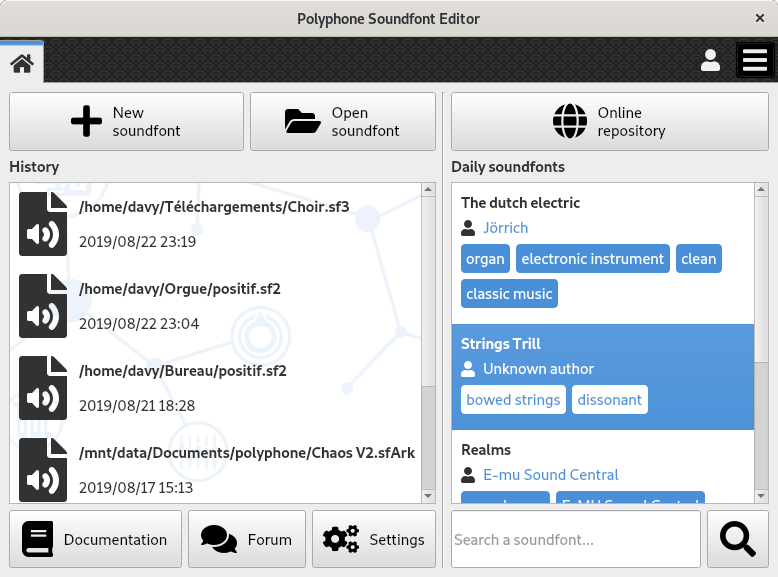
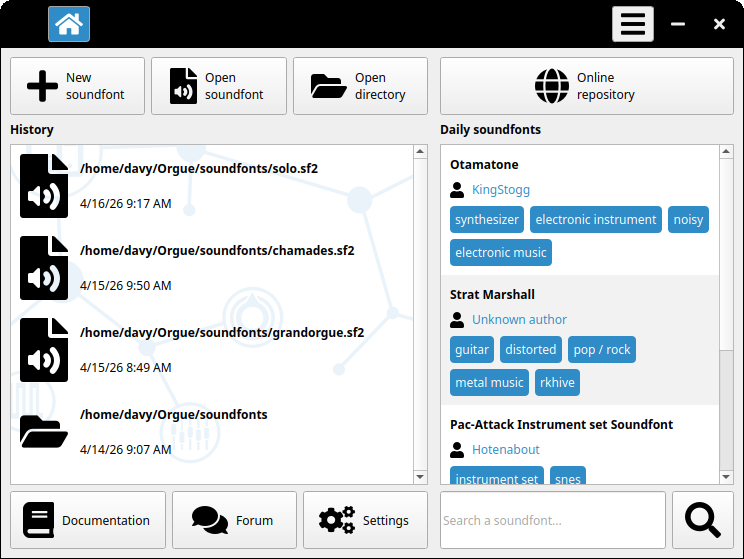
Preparation for the soundfont explorer

diff --git a/fr/manual/index.md b/fr/manual/index.md
@@ -1,4 +1,4 @@
-Bienvenue dans le **Manuel utilisateur** de Polyphone&nbsp;! Pour découvrir rapidement ce que sont les soundfonts et comment les éditer avec Polyphone, il est possible de commencer par des [tutoriels](tutorials/index.md) ou de regarder des vidéos sur <a href="https://www.youtube.com/results?search_query=polyphone+sf2" target="_blank">YouTube</a> (un grand merci aux utilisateurs de Polyphone pour leurs vidéos très utiles). Et si vous souhaitez connaître toutes les fonctionnalités du logiciel, continuez simplement la lecture.
+Bienvenue dans le **Manuel utilisateur** de Polyphone&nbsp;! Pour découvrir rapidement ce que sont les banques de sons (aussi appelée «&nbsp;soundfont&nbsp;» en anglais) et comment les éditer avec Polyphone, il est possible de commencer par des [tutoriels](tutorials/index.md) ou de regarder des vidéos sur <a href="https://www.youtube.com/results?search_query=polyphone+sf2" target="_blank">YouTube</a> (un grand merci aux utilisateurs de Polyphone pour leurs vidéos très utiles). Et si vous souhaitez connaître toutes les fonctionnalités du logiciel, continuez simplement la lecture.
 
 Si vous avez besoin de plus d'aide, ou si la lecture de ces pages vous rebute, vous pouvez trouver de l'aide dans le [forum](forum).
 
@@ -8,7 +8,7 @@ Si vous avez besoin de plus d'aide, ou si la lecture de ces pages vous rebute, v
 
 À l'ouverture de Polyphone, vous trouverez 3 parties&nbsp;:
 
-* une [partie gauche](#doc_left), contenant l'historique des fichiers et des raccourcis&nbsp;;
+* une [partie gauche](#doc_left), contenant l'historique des fichiers et dossiers ouverts ainsi que des raccourcis&nbsp;;
 * une [partie droite](#doc_right), dédiée aux banques de sons en ligne&nbsp;;
 * une [partie haute](#doc_top), présentant des onglets et un menu.
 
@@ -22,10 +22,11 @@ Si vous avez besoin de plus d'aide, ou si la lecture de ces pages vous rebute, v
 ### Ouverture d'une banque de sons
 
 
-Trois manières d'ouvrir une banque de sons (aussi appelée «&nbsp;soundfont&nbsp;» en anglais)&nbsp;:
+Plusieurs manières d'ouvrir une banque de sons&nbsp;:
 
 * un clic sur :guilabel:`Ouvrir banque de sons` ouvre un navigateur de fichiers, les fichiers sélectionnables ayant l'extension :file:`.sf2`, :file:`.sf3`, :file:`.sfArk`, :file:`.sfz` ou :file:`.organ` (les différents formats sont décrits [ici](manual/annexes/the-different-soundfont-formats.md))&nbsp;;
 * un clic sur :guilabel:`Nouvelle banque de sons` ouvre une banque de sons vide, tout devant être fait à partir de zéro&nbsp;;
+* un clic sur :guilabel:`Ouvrir répertoire` ouvre l'[explorateur de banques de sons](manual/soundfont-explorer.md) qui scanne tout un répertoire et permet d'ouvrir le fichier souhaité&nbsp;;
 * un double-clic sur une banque de sons de l'historique la ré-ouvre.
 
 Lorsqu'une banque de sons est ouverte un nouvel onglet apparaît, permettant d'accéder à un [éditeur](manual/soundfont-editor/index.md).
@@ -47,20 +48,20 @@ Trois boutons sont localisés dans le bas de la partie gauche&nbsp;:
 ### Banques de sons en ligne
 
 
-Un clic sur le bouton :guilabel:`Banques de sons en ligne` ouvre un onglet avec l'[explorateur de banques de sons](manual/soundfont-browser.md).
+Un clic sur le bouton :guilabel:`Banques de sons en ligne` ouvre un onglet affichant le contenu du [dépôt de banques de sons en ligne](manual/online-repository.md).
 
 
 ### Banques de sons du jour
 
 
 Chaque jour 5 banques de sons choisies aléatoirement sont affichées ici, de manière à vous inciter à découvrir de nouvelles banques de sons.
-Double-cliquer sur l'une d'elles ouvre un nouvel onglet avec la [page de description](manual/soundfont-browser.md#doc_description) correspondante.
+Double-cliquer sur l'une d'elles ouvre un nouvel onglet avec la [page de description](manual/online-repository.md#doc_description) correspondante.
 
 
 ### Recherche
 
 
-Il est possible d'écrire un mot-clef pour chercher des banques de sons spécifiques et les résultats seront affichés dans l'[explorateur de banques de sons](manual/soundfont-browser.md).
+Il est possible d'écrire un mot-clef pour chercher des banques de sons spécifiques depuis le dépôt en ligne et les résultats seront affichés dans l'[onglet dédié](manual/online-repository.md).
 
 
 ## Partie haute {#doc_top}
@@ -73,9 +74,10 @@ Les onglets permettent un accès rapide entre&nbsp;:
 
 * l'[écran d'accueil](#doc_home) (premier onglet — toujours ouvert),
 * l'[éditeur](manual/soundfont-editor/index.md) d'une banque de sons ouverte,
+* l'[explorateur de banques de sons](manual/soundfont-explorer.md),
 * les [préférences](manual/settings.md) du logiciel,
-* l'[explorateur de banques de sons](manual/soundfont-browser.md),
-* la [page de description](manual/soundfont-browser.md#doc_description) d'une banque de sons en ligne.
+* le [dépôt en ligne](manual/online-repository.md),
+* la [page de description](manual/online-repository.md#doc_description) d'une banque de sons en ligne.
 
 La navigation entre les onglets peut s'effectuer grâce à des raccourcis clavier&nbsp;:
 * :kbd:`Ctrl`+:kbd:`Tab` pour aller à l'onglet suivant, en excluant l'onglet de l'écran d'accueil,

diff --git a/en/manual/index.md b/en/manual/index.md
@@ -8,8 +8,8 @@ If you need more help, or if the reading of these pages puts you off, you may fi
 
 The first screen of Polyphone is basically made of 3 parts:
 
-* a [left part](#doc_left), containing a file history and shortcuts;
-* a [right part](#doc_right), dedicated to the soundfont library;
+* a [left part](#doc_left), containing a history of open files and directories, as well as shortcuts;
+* a [right part](#doc_right), dedicated to the soundfont repository;
 * a [top area](#doc_top), containing tabs and a menu.
 
 
@@ -22,10 +22,11 @@ The first screen of Polyphone is basically made of 3 parts:
 ### Opening a soundfont
 
 
-Three ways for opening a soundfont:
+Several ways for opening a soundfont:
 
 * a click on :guilabel:`Open soundfont` opens a file browser, the allowed file to select having the extension :file:`.sf2`, :file:`.sf3`, :file:`.sfArk`, :file:`.sfz` or :file:`.organ` (the different formats are described [here](manual/annexes/the-different-soundfont-formats.md));
 * a click on :guilabel:`New soundfont` opens an empty soundfont, everything is to be done from scratch;
+* a click on :guilabel:`Open directory` opens the [soundfont explorer](manual/soundfont-explorer.md), which scans an entire directory and allows you to open the desired file;
 * a double-click on a soundfont from the history re-open it.
 
 When a soundfont is open, a new tab appears with a [soundfont editor](manual/soundfont-editor/index.md) inside.
@@ -44,24 +45,23 @@ Three buttons are located at the bottom of the left part:
 ## Right part {#doc_right}
 
 
-### Online library
+### Online repository
 
 
-A click on the button :guilabel:`Online library` opens a tab with the [soundfont browser](manual/soundfont-browser.md).
+A click on the button :guilabel:`Online repository` opens a tab displaying the content of the [online soundfont repository](manual/online-repository.md).
 
 
 ### Daily soundfonts
 
 
-Every day, 5 random soundfonts are displayed here.
-This is made for inciting people discovering new soundfonts.
-Double-clicking on one of them opens a new tab with the corresponding [soundfont description](manual/soundfont-browser.md#doc_description).
+Every day, 5 random soundfonts are displayed here. This is made for inciting people discovering new soundfonts.
+Double-clicking on one of them opens a new tab with the corresponding [soundfont description](manual/online-repository.md#doc_description).
 
 
 ### Search
 
 
-It is possible to write a keyword here for searching specific soundfonts and the results will be displayed in the [soundfont browser](manual/soundfont-browser.md).
+It is possible to write a keyword here for searching specific soundfonts from the online repository, and the results will be displayed in the [dedicated tab](manual/online-repository.md).
 
 
 ## Top area {#doc_top}
@@ -74,9 +74,10 @@ The tabs provide a quick access between:
 
 * the [home screen](#doc_home) (first tab — always open),
 * the [editor](manual/soundfont-editor/index.md) of an open soundfont,
+* the [soundfont explorer](manual/soundfont-explorer.md),
 * the software [settings](manual/settings.md),
-* the [soundfont browser](manual/soundfont-browser.md),
-* a [soundfont description](manual/soundfont-browser.md#doc_description) from the library.
+* the [online repository](manual/online-repository.md),
+* a [soundfont description](manual/online-repository.md#doc_description) from the online repository.
 
 Navigation between tabs can be performed using keyboard shortcuts:
 * :kbd:`Ctrl`+:kbd:`Tab` to go to the next tab, excluding the home screen tab,

diff --git a/fr/manual/online-repository.md b/fr/manual/online-repository.md
@@ -1,15 +1,14 @@
-L'explorateur de banques de sons en ligne est un lien entre Polyphone et le dépôt de banques de sons sur le site web de Polyphone.
-Il vous permet, directement dans Polyphone, de télécharger, tester et potentiellement ré-utiliser des banques de sons.
+Le dépôt en ligne de banques de sons peut être ouvert directement dans Polyphone, ce qui permet de télécharger, tester et potentiellement ré-utiliser des banques de sons.
 
 
-## Explorer les banques de sons {#doc_browse}
+## Accès au dépôt {#doc_access}
 
 
-Pour ouvrir l'explorateur, cliquez sur :guilabel:`Banques de sons en ligne` ou écrivez un mot-clef sur l'[écran d'accueil](manual/index.md).
-Une fois l'explorateur ouvert dans un nouvel onglet, il est possible de chercher, trier et filtrer les résultats.
+Pour ouvrir le dépôt en ligne, cliquez sur :guilabel:`Banques de sons en ligne` ou écrivez un mot-clef sur l'[écran d'accueil](manual/index.md).
+Une fois le dépôt ouvert dans un nouvel onglet, la liste des banques de sons disponibles au téléchargement est affichée et il est possible de chercher, trier et filtrer les résultats.
 
 
-![Explorer les banques de sons](images/soundfont_browser_browsing.png "Explorer les banques de sons")
+![Dépôt en ligne](images/online_repository.png "Dépôt en ligne")
 
 
 ### Rechercher une banque de sons
@@ -70,12 +69,12 @@ Tags
 ## Page de présentation {#doc_description}
 
 
-L'ouverture d'une page de présentation se fait à l'aide d'un double-clic sur un élément dans les :guilabel:`Banques de sons du jour` de l'[écran d'accueil](manual/index.md#doc_right) ou dans l'[explorateur de banques de sons](#doc_browse).
-Un compte Premium est requis pour les banques de sons qui n'apparaissent pas dans les :guilabel:`Banques de sons du jour`.
-Connecter Polyphone à votre compte est possible dans les [préférences](manual/settings.md#doc_library) du logiciel.
+L'ouverture d'une page de présentation se fait à l'aide d'un double-clic sur un élément dans les :guilabel:`Banques de sons du jour` de l'[écran d'accueil](manual/index.md#doc_right) ou dans la [liste](#doc_access).
+Un [compte Premium](premium) est requis pour les banques de sons qui n'apparaissent pas dans les :guilabel:`Banques de sons du jour`.
+Connecter Polyphone à votre compte est possible dans les [préférences](manual/settings.md#doc_repository) du logiciel.
 
 
-![Page de présentation](images/soundfont_browser_description.png "Page de présentation")
+![Page de présentation](images/online_repository_description.png "Page de présentation")
 
 
 Une page de présentation est composée&nbsp;:
@@ -96,4 +95,4 @@ Il est possible depuis le menu de nettoyer tous les téléchargements terminés.
 Une fois que tout est nettoyé, le menu de téléchargement disparaît.
 
 
-![Téléchargement des banques de sons](images/soundfont_browser_download.png "Téléchargement des banques de sons")
+![Téléchargement des banques de sons](images/online_repository_download.png "Téléchargement des banques de sons")

diff --git a/en/manual/online-repository.md b/en/manual/online-repository.md
@@ -1,15 +1,14 @@
-The soundfont browser is a link between Polyphone and the soundfont library of the Polyphone website.
-It allows you, directly in Polyphone, to download, test and possibly re-use soundfonts.
+The online soundfont repository can be accessed directly in Polyphone, making it possible to download, test and possibly re-use soundfonts.
 
 
-## Browsing soundfonts {#doc_browse}
+## Access to the repository {#doc_access}
 
 
-To open the soundfont browser, click on :guilabel:`Online library` or write a keyword on the [home screen](manual/index.md).
-Once the soundfont browser is open in a new tab, it is possible to search, sort and filter the results.
+To open the online repository, click on :guilabel:`Online repository` or write a keyword on the [home screen](manual/index.md).
+Once the online repository is open in a new tab, the list of soundfonts available for download is dispalayed and it is possible to search, sort and filter the results.
 
 
-![Browsing soundfonts](images/soundfont_browser_browsing.png "Browsing soundfonts")
+![Browsing soundfonts](images/online_repository_browsing.png "Browsing soundfonts")
 
 
 ### Searching a soundfont
@@ -70,12 +69,12 @@ Tags
 ## Soundfont description {#doc_description}
 
 
-Opening a soundfont description can be made with a double-click on a cell in the :guilabel:`Daily soundfonts` of the [home screen](manual/index.md#doc_right) or in the [soundfont browser](#doc_browse).
-A Premium account is required for soundfonts that are not in the :guilabel:`Daily soundfonts`.
-Connecting Polyphone to your account is possible in the [settings](manual/settings.md#doc_library) of the software.
+Opening a soundfont description can be made with a double-click on a cell in the :guilabel:`Daily soundfonts` of the [home screen](manual/index.md#doc_right) or in the [soundfont list](#doc_access).
+A [Premium account](premium) is required for soundfonts that are not in the :guilabel:`Daily soundfonts`.
+Connecting Polyphone to your account is possible in the [settings](manual/settings.md#doc_repository) of the software.
 
 
-![Description page of a soundfont](images/soundfont_browser_description.png "Description page of a soundfont")
+![Description page of a soundfont](images/online_repository_description.png "Description page of a soundfont")
 
 
 The description of a soundfont is made of:
@@ -96,4 +95,4 @@ It is possible from the menu to clear the completed downloads.
 If everything is cleared, the download menu disappears.
 
 
-![Dowloading soundfonts](images/soundfont_browser_download.png "Dowloading soundfonts")
+![Dowloading soundfonts](images/online_repository_download.png "Dowloading soundfonts")

diff --git a/fr/tutorials/read-midi-file-with-soundfont.md b/fr/tutorials/read-midi-file-with-soundfont.md
@@ -9,7 +9,7 @@ Les fichiers au format MIDI contiennent des messages MIDI qui, mis ensemble, for
 
 <p>Un fichier MIDI peut piloter jusqu'à 16 canaux différents, permettant l'usage en parallèle de 16 instruments différents. En plus d'indiquer quelles notes jouer, le fichier MIDI contient des instructions demandant au synthétiseur d'utiliser l'instrument X de la banque Y pour les notes à venir du canal Z. Pour permettre une sélection correcte des instruments, la banque de sons utilisée par le synthétiseur doit respecter la norme <a href="https://fr.wikipedia.org/wiki/General_MIDI" target="_blank">General MIDI</a> qui assigne, pour chaque numéros X et Y, un instrument précis. Par exemple, l'instrument <strong>001</strong> doit correspondre à un piano dans la banque de sons.</p>
 
-<p>Pour récapituler, nous allons parler ici de la lecture d'un fichier MIDI pilotant un synthétiseur déclenchant des sons contenus dans une banque de son au format SoundFont respectant la norme General MIDI. La suite est plus simple&nbsp;!</p>
+<p>Pour récapituler, nous allons parler ici de la lecture d'un fichier MIDI pilotant un synthétiseur déclenchant des sons contenus dans une banque de sons au format SoundFont respectant la norme General MIDI. La suite est plus simple&nbsp;!</p>
 </div>
 
 ## Prérequis
@@ -29,7 +29,7 @@ Cliquez sur le bouton :guilabel:`Charger un fichier MIDI`, sélectionnez votre f
 
 ![Le lecteur MIDI et synthétiseur SpessaSynth](images/SpessaSynth.jpg "Le lecteur MIDI et synthétiseur SpessaSynth")
 
-## Choisir la soundfont
+## Choisir la banque de sons
 
 Pour utiliser la banque de sons de votre choix, cliquez sur le bouton :guilabel:`Charger une banque de sons` et sélectionnez votre fichier.
 

diff --git a/fr/tutorials/index.md b/fr/tutorials/index.md
@@ -14,13 +14,13 @@ Vous apprendrez ici comment utiliser complètement les possibilités de tels éc
 
 ### [Utiliser Polyphone comme un synthétiseur](tutorials/use-polyphone-as-a-synthesizer.md)
 
-Polyphone n'est pas qu'un éditeur de soundfonts, c'est aussi un synthétiseur complet permettant de jouer avec un clavier MIDI.
+Polyphone n'est pas qu'un éditeur de banque de sons, c'est aussi un synthétiseur complet permettant de jouer avec un clavier MIDI.
 Ce tutoriel indique comment lancer Polyphone en mode «&nbsp;synthé&nbsp;».
 
 ### [Créer un synthétiseur avec un Raspberry Pi](tutorials/create-a-synthesizer-with-raspberry-pi.md)
 
 Un Raspberry Pi est un ordinateur de la taille d'une carte bancaire et dans lequel Polyphone peut être installé. En l'intégrant dans un caisson contenant des haut-parleurs et en associant un clavier maître, il est possible de réaliser un vrai synthétiseur&nbsp;!
 
-### [Lire un fichier MIDI avec une soundfont](tutorials/read-midi-file-with-soundfont.md)
+### [Lire un fichier MIDI avec une banque de sons](tutorials/read-midi-file-with-soundfont.md)
 
-Les fichiers au format MIDI contiennent des messages MIDI qui, mis ensemble, forment une mélodie. Ils peuvent être combinés à un synthétiseur utilisant une soundfont et ce tutoriel montre comment utiliser un fichier MIDI pour tester le rendu d'une soundfont.
+Les fichiers au format MIDI contiennent des messages MIDI qui, mis ensemble, forment une mélodie. Ils peuvent être combinés à un synthétiseur utilisant une banque de sons au format SoundFont et ce tutoriel montre comment utiliser un fichier MIDI pour tester le rendu d'une telle banque.

diff --git a/fr/manual/annexes/the-different-soundfont-formats.md b/fr/manual/annexes/the-different-soundfont-formats.md
@@ -98,7 +98,7 @@ Ce format tend à être obsolète dû à de nombreux problèmes de conception, c
 ## Dispositions GrandOrgue {#doc_organ}
 
 
-GrandOrgue est un logiciel dont le but principal est d'émuler des instruments tels que des orgues à tuyaux. La définition d'un orgue est faite par une série de fichiers wav, chaque fichier contenant le son d'un tuyau, et un fichier avec l'extension «&nbsp;.organ&nbsp;» qui contient tous les paramètres nécessaires pour créer un orgue basé sur tous les fichiers wav. Globalement, tous les échantillons sont associés à des touches spécifiques et sont regroupés par jeux, qui peuvent être activés ou désactivés lorsque l'on joue de l'orgue. Polyphone est capable de créer des soundfonts basées sur ce mapping mais ne supporte pas la conversion des soundfonts vers le format GrandOrgue.
+GrandOrgue est un logiciel dont le but principal est d'émuler des instruments tels que des orgues à tuyaux. La définition d'un orgue est faite par une série de fichiers wav, chaque fichier contenant le son d'un tuyau, et un fichier avec l'extension «&nbsp;.organ&nbsp;» qui contient tous les paramètres nécessaires pour créer un orgue basé sur tous les fichiers wav. Globalement, tous les échantillons sont associés à des touches spécifiques et sont regroupés par jeux, qui peuvent être activés ou désactivés lorsque l'on joue de l'orgue. Polyphone est capable de créer des banques de sons basées sur ce mapping mais ne supporte pas la conversion des banques de sons vers le format GrandOrgue.
 
 ### Limitation sur l'importation
 

diff --git a/fr/manual/settings.md b/fr/manual/settings.md
@@ -5,7 +5,7 @@ Elles sont divisées en cinq sections&nbsp;:
 * [Interface](#doc_interface)
 * [Son](#doc_sound)
 * [Clavier virtuel](#doc_keyboard)
-* [Banques de sons en ligne](#doc_library)
+* [Banques de sons en ligne](#doc_repository)
 
 
 ## Général {#doc_general}
@@ -103,15 +103,15 @@ Pour les musiciens plus avancés, le diapason et le tempérament peuvent être r
 ![Préférences, keyboard](images/settings_keyboard.png "Préférences, keyboard")
 
 
-## Banques de sons en ligne {#doc_library}
+## Banques de sons en ligne {#doc_repository}
 
 
-Les identifiants de connexion peuvent être entrés pour lier Polyphone à un compte, un compte Premium permettant de débloquer l'[explorateur de banques de sons](manual/soundfont-browser.md).
+Les identifiants de connexion peuvent être entrés pour lier Polyphone à un compte, un [compte Premium](premium) permettant de débloquer le [dépôt en ligne](manual/online-repository.md).
 
-Le répertoire de téléchargement utilisé par l'[explorateur](manual/soundfont-browser.md) peut être changé ici.
+Le répertoire utilisé pour les téléchargements de banques de sons depuis le [dépôt](manual/online-repository.md) peut être changé ici.
 
 
-![Préférences, banques de sons en ligne](images/settings_library.png "Préférences, banques de sons en ligne")
+![Préférences, banques de sons en ligne](images/settings_repository.png "Préférences, banques de sons en ligne")
 
 
 

diff --git a/fr/tutorials/create-a-synthesizer-with-raspberry-pi.md b/fr/tutorials/create-a-synthesizer-with-raspberry-pi.md
@@ -78,7 +78,7 @@ apt-get update
 apt-get upgrade
 ```
 
-Installez ensuite **Polyphone** grâce au package .deb disponible sur cette [page](software). Connectez le clavier MIDI par USB au Raspberry Pi (déconnectez éventuellement le clavier d'ordinateur si aucun port USB n'est disponible), puis ouvrez Polyphone et sélectionnez le clavier MIDI dans la liste déroulante des entrées MIDI dans les [configurations](manual/settings.md#doc_general). En téléchargeant une soundfont, par exemple depuis le [dépôt](soundfonts), il est déjà possible de jouer d'un instrument avec le clavier MIDI associé au Raspberry Pi !
+Installez ensuite **Polyphone** grâce au package .deb disponible sur cette [page](software). Connectez le clavier MIDI par USB au Raspberry Pi (déconnectez éventuellement le clavier d'ordinateur si aucun port USB n'est disponible), puis ouvrez Polyphone et sélectionnez le clavier MIDI dans la liste déroulante des entrées MIDI dans les [configurations](manual/settings.md#doc_general). En téléchargeant une banque de sons, par exemple depuis le [dépôt](soundfonts), il est déjà possible de jouer d'un instrument avec le clavier MIDI associé au Raspberry Pi !
 
 ### Lancement automatique de Polyphone
 

diff --git a/en/manual/settings.md b/en/manual/settings.md
@@ -5,7 +5,7 @@ They are divided into five sections:
 * [Interface](#doc_interface)
 * [Sound](#doc_sound)
 * [Virtual keyboard](#doc_keyboard)
-* [Online library](#doc_library)
+* [Online repository](#doc_repository)
 
 
 ## General {#doc_general}
@@ -103,15 +103,15 @@ For more advanced musicians, the tuning and temperament can be changed here.
 ![Settings, keyboard](images/settings_keyboard.png "Settings, keyboard")
 
 
-## Online library {#doc_library}
+## Online repository {#doc_repository}
 
 
-Identifiers can be entered here to link Polyphone with an account, a Premium account unlocking the [soundfont browser](manual/soundfont-browser.md).
+Identifiers can be entered here to link Polyphone with an account, a [Premium account](premium) unlocking the [online repository](manual/online-repository.md).
 
-The download directory used by the [soundfont browser](manual/soundfont-browser.md) can be changed here.
+The directory used when downloading soundfonts from the [online repository](manual/online-repository.md) can be changed here.
 
 
-![Settings, library](images/settings_library.png "Settings, library")
+![Settings, repository](images/settings_repository.png "Settings, repository")
 
 
 

diff --git a/en/tutorials/create-a-synthesizer-with-raspberry-pi.md b/en/tutorials/create-a-synthesizer-with-raspberry-pi.md
@@ -78,7 +78,7 @@ apt-get update
 apt-get upgrade
 ```
 
-Then install **Polyphone** using the .deb package available on this [page](software). Connect the MIDI keyboard via USB to the Raspberry Pi (disconnect the computer keyboard if no USB port is available), then open Polyphone and select the MIDI keyboard from the drop-down list of MIDI inputs in the [settings](manual/settings.md#doc_general). By downloading a soundfont, for example from the [library](soundfonts), it's already possible to play an instrument with the MIDI keyboard associated with the Raspberry Pi!
+Then install **Polyphone** using the .deb package available on this [page](software). Connect the MIDI keyboard via USB to the Raspberry Pi (disconnect the computer keyboard if no USB port is available), then open Polyphone and select the MIDI keyboard from the drop-down list of MIDI inputs in the [settings](manual/settings.md#doc_general). By downloading a soundfont, for example from the [repository](soundfonts), it's already possible to play an instrument with the MIDI keyboard associated with the Raspberry Pi!
 
 ### Launching Polyphone automatically
 

diff --git a/fr/manual/annexes/command-line.md b/fr/manual/annexes/command-line.md
@@ -152,7 +152,7 @@ polyphone -4 -i <fichier/à/convertir> -d <répertoire/de/destination> -o <nom_d
 
 -c
 : Configuration de la conversion.
-  L'option «&nbsp;raw&nbsp;» permet d'exporter des valeurs brutes (telles qu'elles sont enregistrées dans une soundfont) plutôt que des valeurs ayant des unités physiques et mesurables. Par exemple, la durée de relâchement exportée sera de 0,491 (millisecondes) ou de -1229 dans sa version brute. Par défaut, ce sont les valeurs avec des unités réelles qui sont exportées.
+  L'option «&nbsp;raw&nbsp;» permet d'exporter des valeurs brutes (telles qu'elles sont enregistrées dans une banque de sons) plutôt que des valeurs ayant des unités physiques et mesurables. Par exemple, la durée de relâchement exportée sera de 0,491 (millisecondes) ou de -1229 dans sa version brute. Par défaut, ce sont les valeurs avec des unités réelles qui sont exportées.
 
 
 ### Exemple
